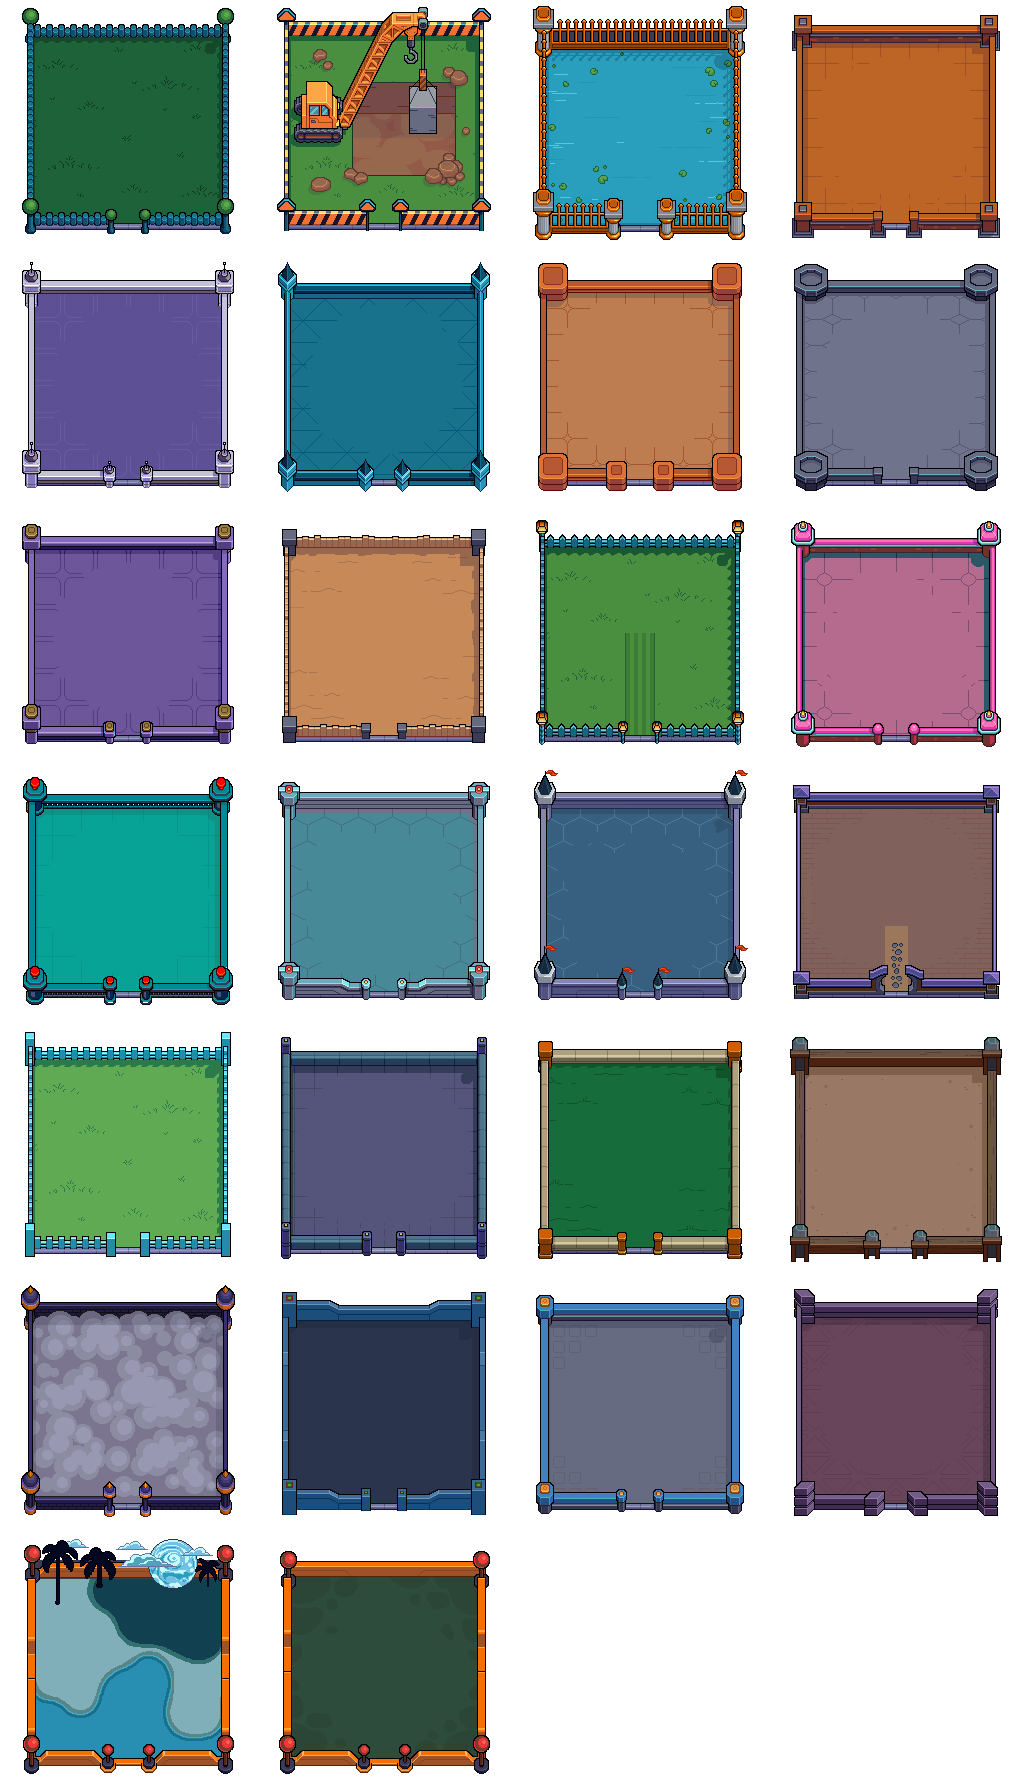
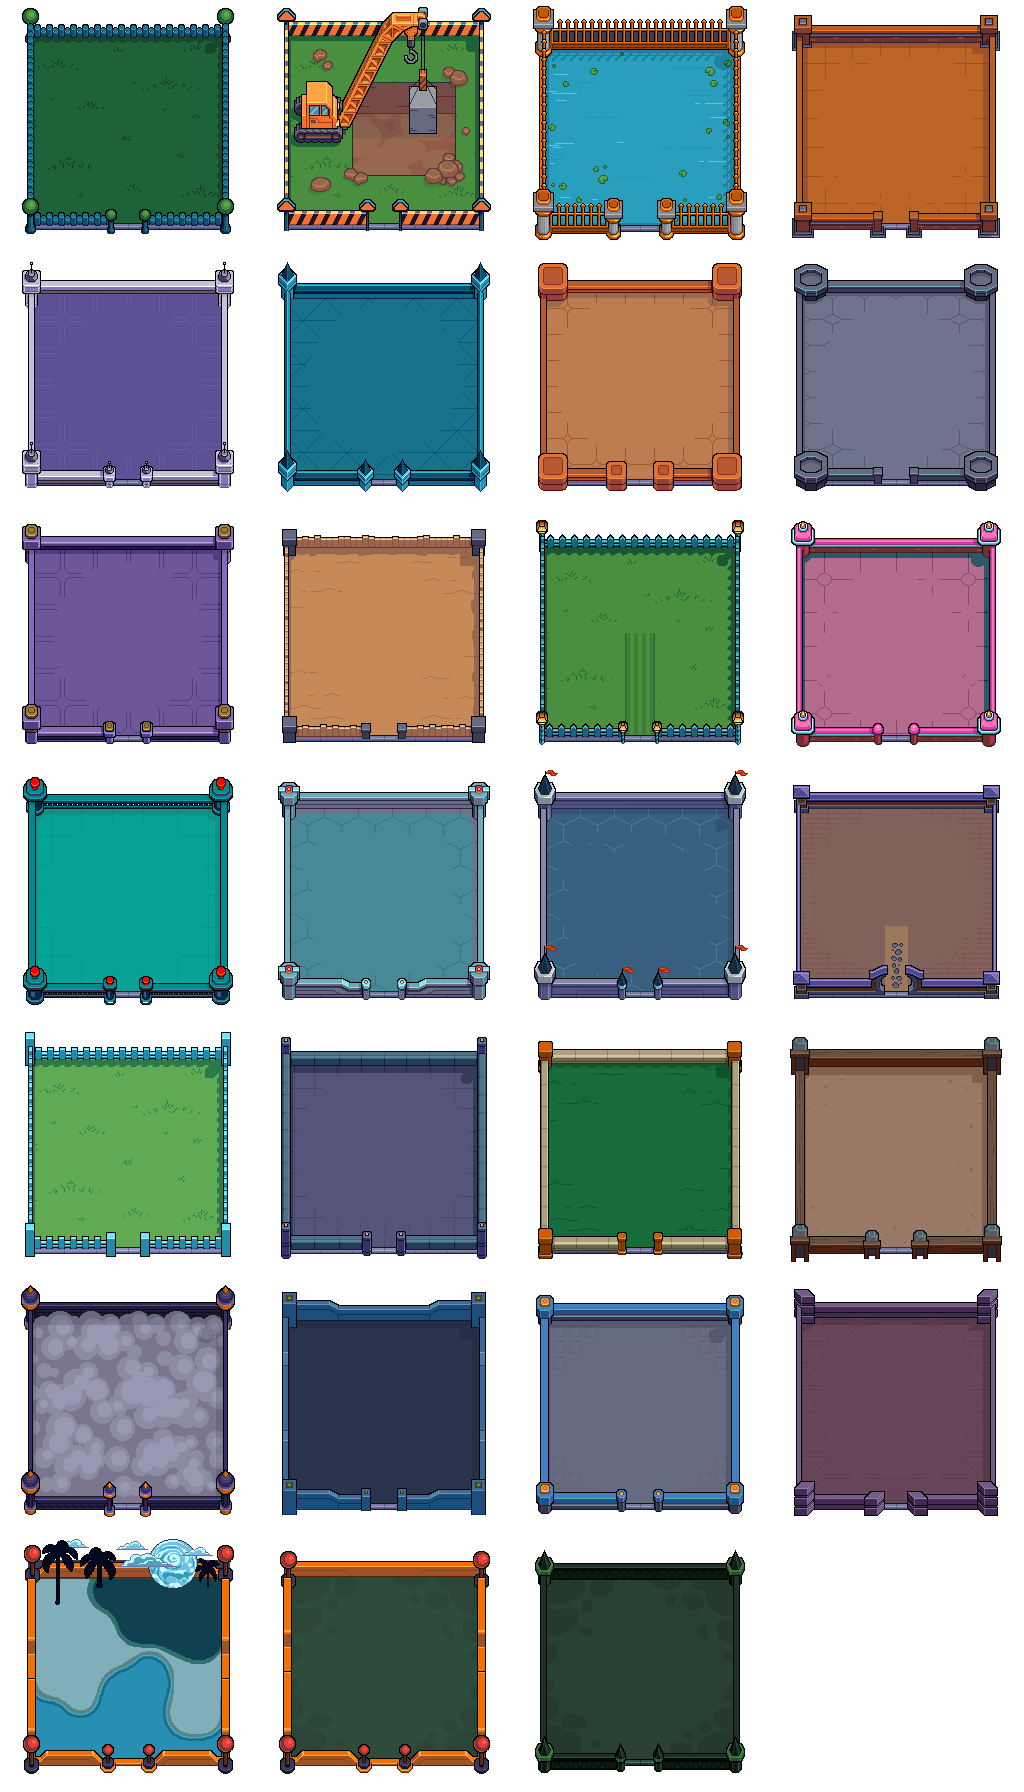
add survivor frontend

Changed region(s): [[0.5, 0.8438, 0.75, 1.0]]

diff --git a/client/src/lib/tokens/SURVIVOR.ts b/client/src/lib/tokens/SURVIVOR.ts
@@ -1,52 +1,51 @@
-export const USDC = {
-  skin: 'USDC',
-  icon: '/tokens/USDC/usdc.png',
-  biome: { x: 2, y: 5 },
+export const SURVIVOR = {
+  skin: 'SURVIVOR',
+  icon: '/tokens/SURVIVOR/survivor.png',
+  biome: { x: 2, y: 6 },
   building: {
     1: {
-      x: 6,
-      y: 15,
+      x: 9,
+      y: 6,
       useAnimation: true,
       animations: [
         {
-          url: '/tokens/USDC/1-animated-line.png',
+          url: '/tokens/SURVIVOR/1-animated-line.png',
           type: 'rowColumn',
           width: 10,
           height: 1,
           animations: [{ name: 'idle', frameRange: [0, 9] }],
-          bottomPadding: 16,
           scale: 0.75,
+          bottomPadding: 4,
         },
       ],
     },
     2: {
-      x: 6,
-      y: 16,
+      x: 9,
+      y: 7,
       useAnimation: true,
       animations: [
         {
-          url: '/tokens/USDC/2-animated-line.png',
+          url: '/tokens/SURVIVOR/2-animated-line.png',
           type: 'rowColumn',
           width: 10,
           height: 1,
           animations: [{ name: 'idle', frameRange: [0, 9] }],
-          bottomPadding: 12,
-          scale: 0.75,
+          bottomPadding: 4,
         },
       ],
     },
     3: {
-      x: 6,
-      y: 17,
+      x: 9,
+      y: 8,
       useAnimation: true,
       animations: [
         {
-          url: '/tokens/USDC/3-animated-line.png',
+          url: '/tokens/SURVIVOR/3-animated-line.png',
           type: 'rowColumn',
           width: 10,
           height: 1,
           animations: [{ name: 'idle', frameRange: [0, 9] }],
-          bottomPadding: 14,
+          bottomPadding: 6,
         },
       ],
     },

diff --git a/client/scripts/rearrange_spritesheets.py b/client/scripts/rearrange_spritesheets.py
@@ -2,6 +2,49 @@
 """
 Script to rearrange spritesheet PNGs in token directories.
 Converts spritesheets from 3-column grid format to single-row format based on metadata.
+
+USAGE:
+    python3 rearrange_spritesheets.py [TOKEN_NAME]
+
+EXAMPLES:
+    # Process all tokens defined in frame_offsets.json
+    python3 rearrange_spritesheets.py
+    
+    # Process only the SURVIVOR token
+    python3 rearrange_spritesheets.py SURVIVOR
+    
+    # Process only the USDC token
+    python3 rearrange_spritesheets.py USDC
+
+REQUIREMENTS:
+    - Must be run from the client/scripts directory
+    - Requires frame_offsets.json in the same directory
+    - Token sprite files must exist in ../static/tokens/[TOKEN_NAME]/
+    - Requires Python PIL (Pillow) library: pip install pillow
+
+INPUT FORMAT:
+    - Original sprites are in 3-column grid format (e.g., 3x4 grid for 10 frames)
+    - Files named as: 1-animated.png, 2-animated.png, 3-animated.png
+    - Located in ../static/tokens/[TOKEN_NAME]/
+
+OUTPUT:
+    - Single-row format sprites: [level]-animated-line.png  
+    - Combined spritesheet: animated-combined.png
+    - Updated frame_offsets.json with corrected dimensions
+
+FRAME_OFFSETS.JSON FORMAT:
+    {
+        "TOKEN_NAME": {
+            "1": {
+                "frame_count": 10,
+                "individual_frame_width": 192,
+                "sprite_width": 1920,
+                "sprite_height": 192,
+                "offset": 0
+            },
+            ...
+        }
+    }
 """
 
 import os
@@ -87,7 +130,7 @@ def rearrange_spritesheet(input_path, output_path, frame_count, expected_frame_s
         print(f"  Error processing {input_path}: {e}")
         return False
 
-def process_token(token_name, token_data, base_path="client/static/tokens"):
+def process_token(token_name, token_data, base_path="../static/tokens"):
     """Process all spritesheets for a given token."""
     token_dir = Path(base_path) / token_name
     
@@ -145,7 +188,7 @@ def update_frame_offsets(token_name, level, frame_size, frame_count):
         print(f"  Warning: Could not update frame_offsets.json: {e}")
         return False
 
-def combine_spritesheets(token_name, token_data, base_path="client/static/tokens"):
+def combine_spritesheets(token_name, token_data, base_path="../static/tokens"):
     """Combine all level spritesheets into a single combined spritesheet with consistent height."""
     token_dir = Path(base_path) / token_name
     
